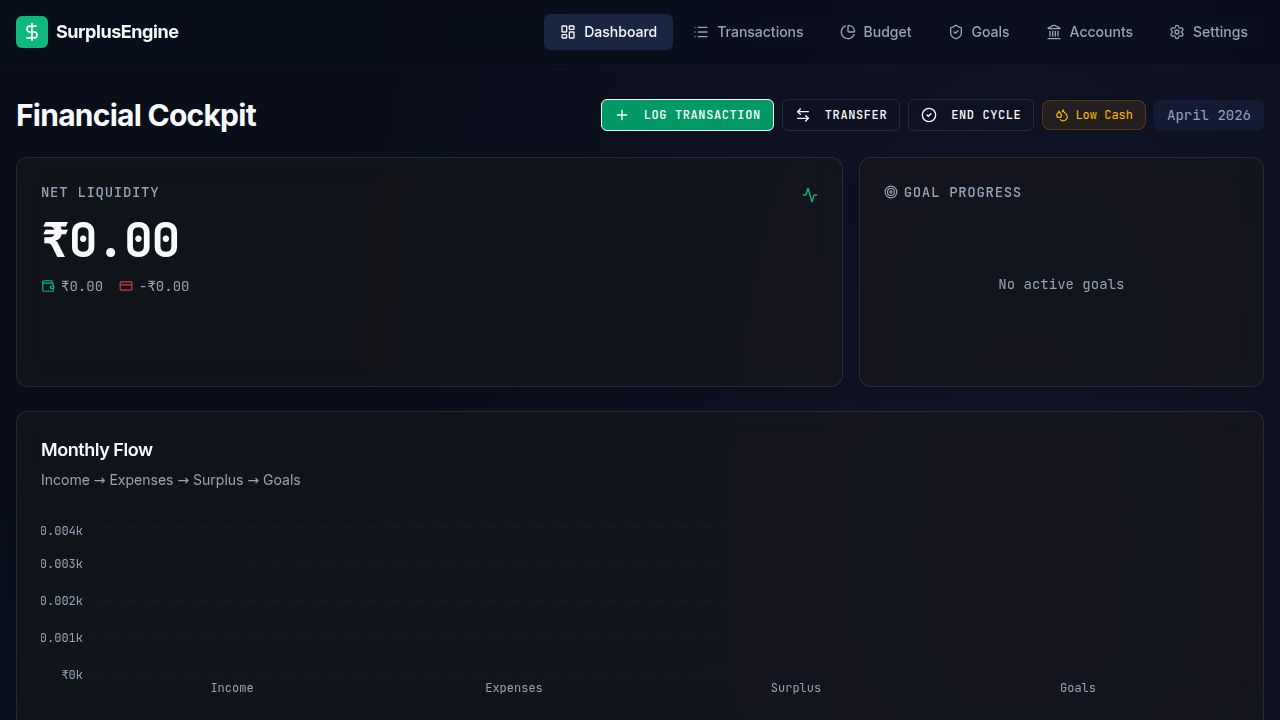
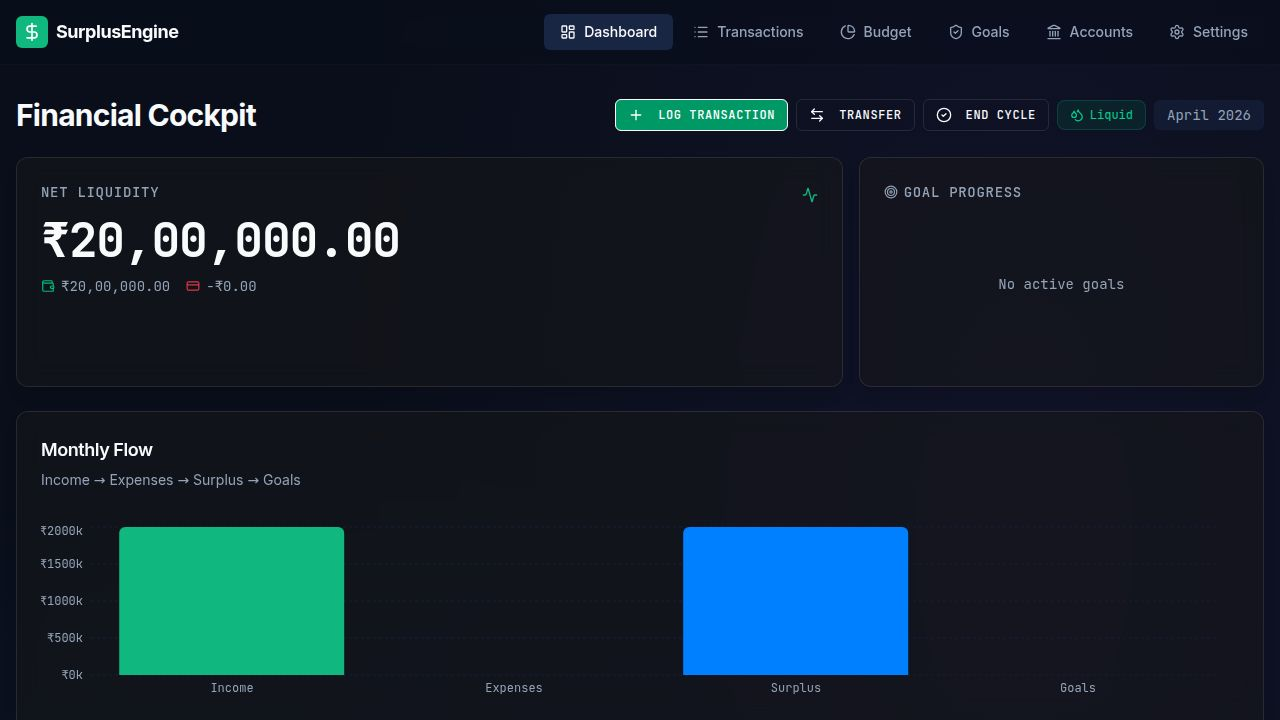
Task #17: Align Dashboard & Surplus with billing cycle + correct expense formula
Problem 1: Surplus routes (surplus/monthly, surplus/distribute) filtered by
calendar month (YYYY-MM) instead of the 25th-to-25th billing cycle. This caused
March 25 salary to be excluded from April's surplus calculation, showing
negative surplus when it should be positive.

Problem 2: Dashboard Monthly Flow chart used ALL expenses (including CC-sourced)
for totalExpenses and old useInSurplus account balance sum for monthlySurplus.
This inflated the Expenses bar and showed Surplus as zero.

Changes:
- surplus.ts: Import getCycleDates, replace all to_char(date, 'YYYY-MM')
  filters with cycle date range (date >= startDate AND date <= endDate)
  in both surplus/monthly and surplus/distribute endpoints
- Added extractTotal() helper to clean up db.execute result parsing
- dashboard.ts: Replace expenseResult (all expenses) with bankExpenseResult
  (expenses from bank accounts only, excl Adjustment) + ccTransferResult
  (transfers to CC accounts). totalExpenses = bankExpenses + ccTransfers.
  monthlySurplus = income - totalExpenses (not useInSurplus balance sum).
  Kept allExpenses query for burn rate actualExpenses (planned vs actual).
- OpenAPI spec: Replaced ccExpenses/nonCcExpenses fields with bankExpenses
  in DashboardSummary schema
- Regenerated codegen (orval)
- Frontend waterfallData already uses summary.totalExpenses and
  summary.monthlySurplus, so no frontend changes needed

diff --git a/artifacts/api-server/src/routes/surplus.ts b/artifacts/api-server/src/routes/surplus.ts
@@ -2,6 +2,7 @@ import { Router, type IRouter } from "express";
 import { eq, sql } from "drizzle-orm";
 import { db, transactionsTable, monthlyConfigTable, goalsTable, surplusAllocationsTable, accountsTable } from "@workspace/db";
 import { DistributeSurplusBody } from "@workspace/api-zod";
+import { getCycleDates } from "../lib/billing-cycle";
 
 const router: IRouter = Router();
 
@@ -13,6 +14,11 @@ function getNextMonth(month: string): string {
   return `${ny}-${String(nm).padStart(2, "0")}`;
 }
 
+function extractTotal(result: unknown): number {
+  const rows = (result as { rows: { total: string }[] }).rows;
+  return Number(rows?.[0]?.total ?? 0);
+}
+
 router.get("/surplus/monthly", async (req, res) => {
   try {
     const month = req.query.month as string;
@@ -21,32 +27,32 @@ router.get("/surplus/monthly", async (req, res) => {
       return;
     }
 
+    const { startDate, endDate } = getCycleDates(month);
+
     const incomeResult = await db
       .select({ total: sql<string>`COALESCE(SUM(${transactionsTable.amount}::numeric), 0)` })
       .from(transactionsTable)
-      .where(sql`${transactionsTable.type} = 'Income' AND to_char(${transactionsTable.date}::date, 'YYYY-MM') = ${month}`);
+      .where(sql`${transactionsTable.type} = 'Income' AND ${transactionsTable.date}::date >= ${startDate}::date AND ${transactionsTable.date}::date <= ${endDate}::date`);
 
-    const bankExpenseResult = await db.execute<{ total: string }>(sql`
+    const bankExpenseResult = await db.execute(sql`
       SELECT COALESCE(SUM(t.amount::numeric), 0) as total
       FROM ${transactionsTable} t
       INNER JOIN ${accountsTable} a ON a.id = t.account_id
       WHERE t.type = 'Expense' AND t.category != 'Adjustment' AND a.type = 'bank'
-        AND to_char(t.date::date, 'YYYY-MM') = ${month}
+        AND t.date::date >= ${startDate}::date AND t.date::date <= ${endDate}::date
     `);
 
-    const ccTransferResult = await db.execute<{ total: string }>(sql`
+    const ccTransferResult = await db.execute(sql`
       SELECT COALESCE(SUM(t.amount::numeric), 0) as total
       FROM ${transactionsTable} t
       INNER JOIN ${accountsTable} a ON a.id = t.to_account_id
       WHERE t.type = 'Transfer' AND a.type = 'credit_card'
-        AND to_char(t.date::date, 'YYYY-MM') = ${month}
+        AND t.date::date >= ${startDate}::date AND t.date::date <= ${endDate}::date
     `);
 
     const income = Number(incomeResult[0]?.total ?? 0);
-    const beRows = (bankExpenseResult as unknown as { rows: { total: string }[] }).rows;
-    const ctRows = (ccTransferResult as unknown as { rows: { total: string }[] }).rows;
-    const bankExpenses = Number(beRows?.[0]?.total ?? 0);
-    const ccTransfers = Number(ctRows?.[0]?.total ?? 0);
+    const bankExpenses = extractTotal(bankExpenseResult);
+    const ccTransfers = extractTotal(ccTransferResult);
     const expenses = bankExpenses + ccTransfers;
     const surplus = income - expenses;
 
@@ -86,30 +92,30 @@ router.post("/surplus/distribute", async (req, res) => {
       return;
     }
 
+    const { startDate, endDate } = getCycleDates(month);
+
     const incomeResult = await db
       .select({ total: sql<string>`COALESCE(SUM(${transactionsTable.amount}::numeric), 0)` })
       .from(transactionsTable)
-      .where(sql`${transactionsTable.type} = 'Income' AND to_char(${transactionsTable.date}::date, 'YYYY-MM') = ${month}`);
+      .where(sql`${transactionsTable.type} = 'Income' AND ${transactionsTable.date}::date >= ${startDate}::date AND ${transactionsTable.date}::date <= ${endDate}::date`);
 
-    const bankExpResult = await db.execute<{ total: string }>(sql`
+    const bankExpResult = await db.execute(sql`
       SELECT COALESCE(SUM(t.amount::numeric), 0) as total
       FROM ${transactionsTable} t
       INNER JOIN ${accountsTable} a ON a.id = t.account_id
       WHERE t.type = 'Expense' AND t.category != 'Adjustment' AND a.type = 'bank'
-        AND to_char(t.date::date, 'YYYY-MM') = ${month}
+        AND t.date::date >= ${startDate}::date AND t.date::date <= ${endDate}::date
     `);
 
-    const ccTrResult = await db.execute<{ total: string }>(sql`
+    const ccTrResult = await db.execute(sql`
       SELECT COALESCE(SUM(t.amount::numeric), 0) as total
       FROM ${transactionsTable} t
       INNER JOIN ${accountsTable} a ON a.id = t.to_account_id
       WHERE t.type = 'Transfer' AND a.type = 'credit_card'
-        AND to_char(t.date::date, 'YYYY-MM') = ${month}
+        AND t.date::date >= ${startDate}::date AND t.date::date <= ${endDate}::date
     `);
 
-    const beRows2 = (bankExpResult as unknown as { rows: { total: string }[] }).rows;
-    const ctRows2 = (ccTrResult as unknown as { rows: { total: string }[] }).rows;
-    const surplus = Number(incomeResult[0]?.total ?? 0) - Number(beRows2?.[0]?.total ?? 0) - Number(ctRows2?.[0]?.total ?? 0);
+    const surplus = Number(incomeResult[0]?.total ?? 0) - extractTotal(bankExpResult) - extractTotal(ccTrResult);
 
     if (surplus <= 0) {
       res.status(400).json({ error: "No surplus available for this month." });

diff --git a/artifacts/api-server/src/routes/dashboard.ts b/artifacts/api-server/src/routes/dashboard.ts
@@ -28,26 +28,26 @@ router.get("/dashboard/summary", async (req, res) => {
       .from(transactionsTable)
       .where(sql`${transactionsTable.type} = 'Income' AND ${transactionsTable.date}::date >= ${startDate}::date AND ${transactionsTable.date}::date <= ${endDate}::date`);
 
-    const expenseResult = await db
-      .select({ total: sql<string>`COALESCE(SUM(${transactionsTable.amount}::numeric), 0)` })
-      .from(transactionsTable)
-      .where(sql`${transactionsTable.type} = 'Expense' AND ${transactionsTable.category} != 'Adjustment' AND ${transactionsTable.date}::date >= ${startDate}::date AND ${transactionsTable.date}::date <= ${endDate}::date`);
-
-    const ccExpenseResult = await db
+    const bankExpenseResult = await db
       .select({ total: sql<string>`COALESCE(SUM(t.amount::numeric), 0)` })
       .from(sql`${transactionsTable} t JOIN ${accountsTable} a ON t.account_id = a.id`)
-      .where(sql`t.type = 'Expense' AND t.category != 'Adjustment' AND a.type = 'credit_card' AND t.date::date >= ${startDate}::date AND t.date::date <= ${endDate}::date`);
+      .where(sql`t.type = 'Expense' AND t.category != 'Adjustment' AND a.type = 'bank' AND t.date::date >= ${startDate}::date AND t.date::date <= ${endDate}::date`);
 
     const ccTransferResult = await db
       .select({ total: sql<string>`COALESCE(SUM(t.amount::numeric), 0)` })
       .from(sql`${transactionsTable} t JOIN ${accountsTable} a ON t.to_account_id = a.id`)
       .where(sql`t.type = 'Transfer' AND a.type = 'credit_card' AND t.date::date >= ${startDate}::date AND t.date::date <= ${endDate}::date`);
 
+    const allExpenseResult = await db
+      .select({ total: sql<string>`COALESCE(SUM(${transactionsTable.amount}::numeric), 0)` })
+      .from(transactionsTable)
+      .where(sql`${transactionsTable.type} = 'Expense' AND ${transactionsTable.category} != 'Adjustment' AND ${transactionsTable.date}::date >= ${startDate}::date AND ${transactionsTable.date}::date <= ${endDate}::date`);
+
     const totalIncome = Number(incomeResult[0]?.total ?? 0);
-    const totalExpenses = Number(expenseResult[0]?.total ?? 0);
-    const ccExpenses = Number(ccExpenseResult[0]?.total ?? 0);
-    const nonCcExpenses = totalExpenses - ccExpenses;
+    const bankExpenses = Number(bankExpenseResult[0]?.total ?? 0);
     const ccTransfers = Number(ccTransferResult[0]?.total ?? 0);
+    const totalExpenses = bankExpenses + ccTransfers;
+    const allExpenses = Number(allExpenseResult[0]?.total ?? 0);
     const endBalance = startingBalance + totalIncome - totalExpenses;
     const monthlySurplus = totalIncome - totalExpenses;
 
@@ -76,7 +76,7 @@ router.get("/dashboard/summary", async (req, res) => {
     const plannedExpenses = allBudgetGoals
       .filter(g => expenseCatNames.has(g.category))
       .reduce((sum, g) => sum + Number(g.plannedAmount ?? 0), 0);
-    const actualExpenses = totalExpenses;
+    const actualExpenses = allExpenses;
     const burnRate = plannedExpenses > 0 ? (actualExpenses / plannedExpenses) * 100 : 0;
 
     res.json({
@@ -85,12 +85,9 @@ router.get("/dashboard/summary", async (req, res) => {
       netLiquidity: netLiquidity.toFixed(2),
       totalIncome: totalIncome.toFixed(2),
       totalExpenses: totalExpenses.toFixed(2),
-      ccExpenses: ccExpenses.toFixed(2),
-      nonCcExpenses: nonCcExpenses.toFixed(2),
+      bankExpenses: bankExpenses.toFixed(2),
       ccTransfers: ccTransfers.toFixed(2),
-      monthlySurplus: allAccounts
-        .filter(a => a.useInSurplus)
-        .reduce((sum, a) => sum + Number(a.currentBalance ?? 0), 0).toFixed(2),
+      monthlySurplus: monthlySurplus.toFixed(2),
       burnRate: Math.round(burnRate),
       plannedExpenses: plannedExpenses.toFixed(2),
       actualExpenses: actualExpenses.toFixed(2),
